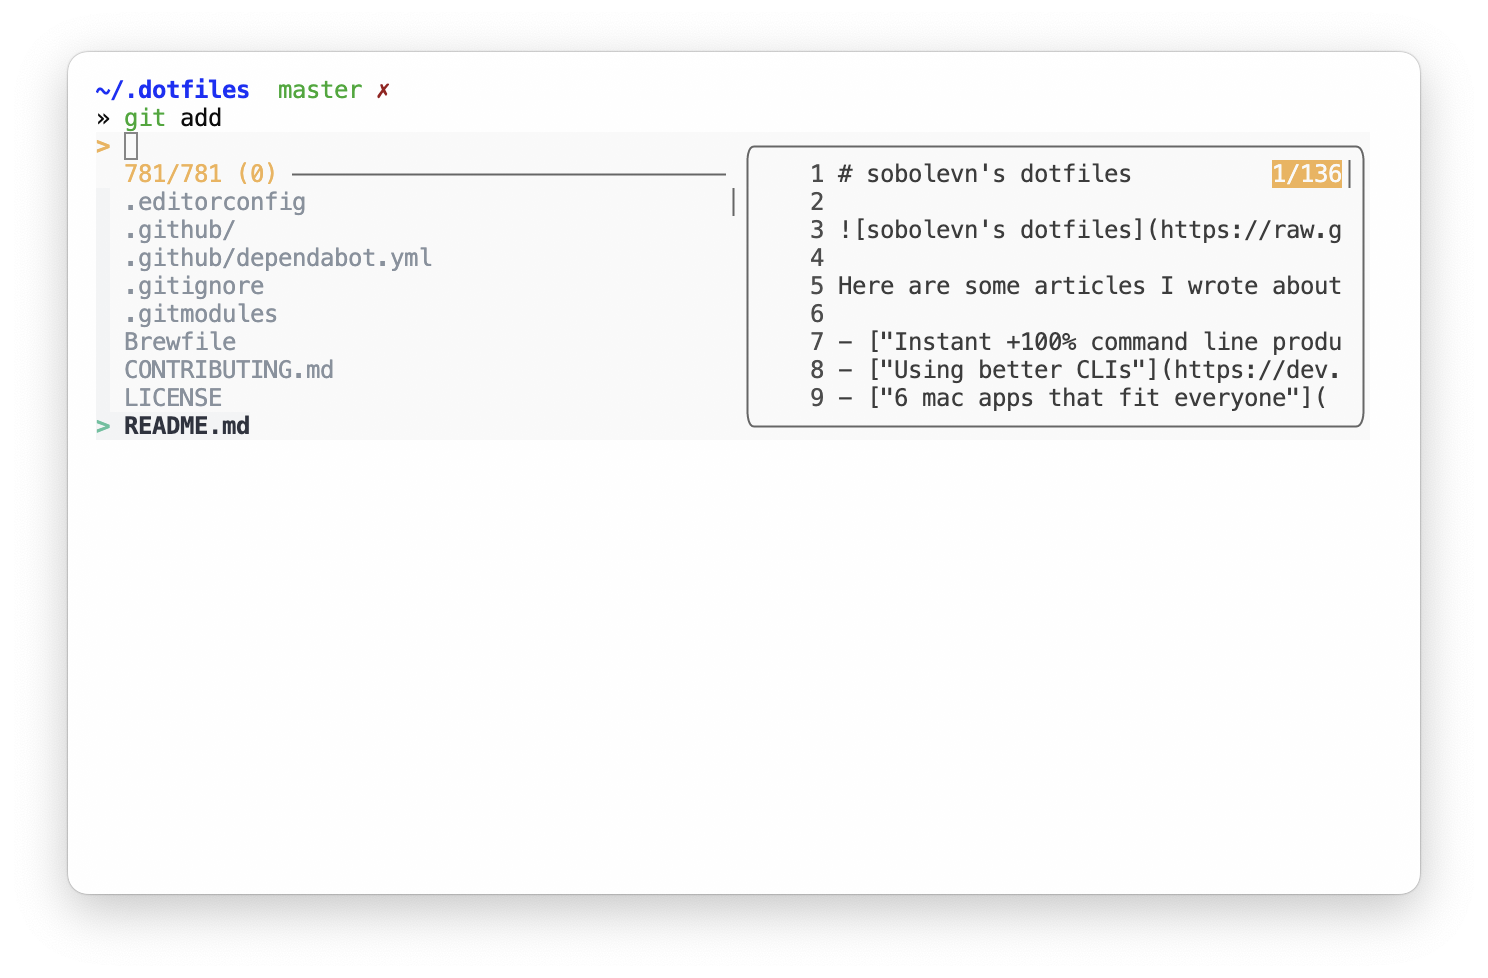
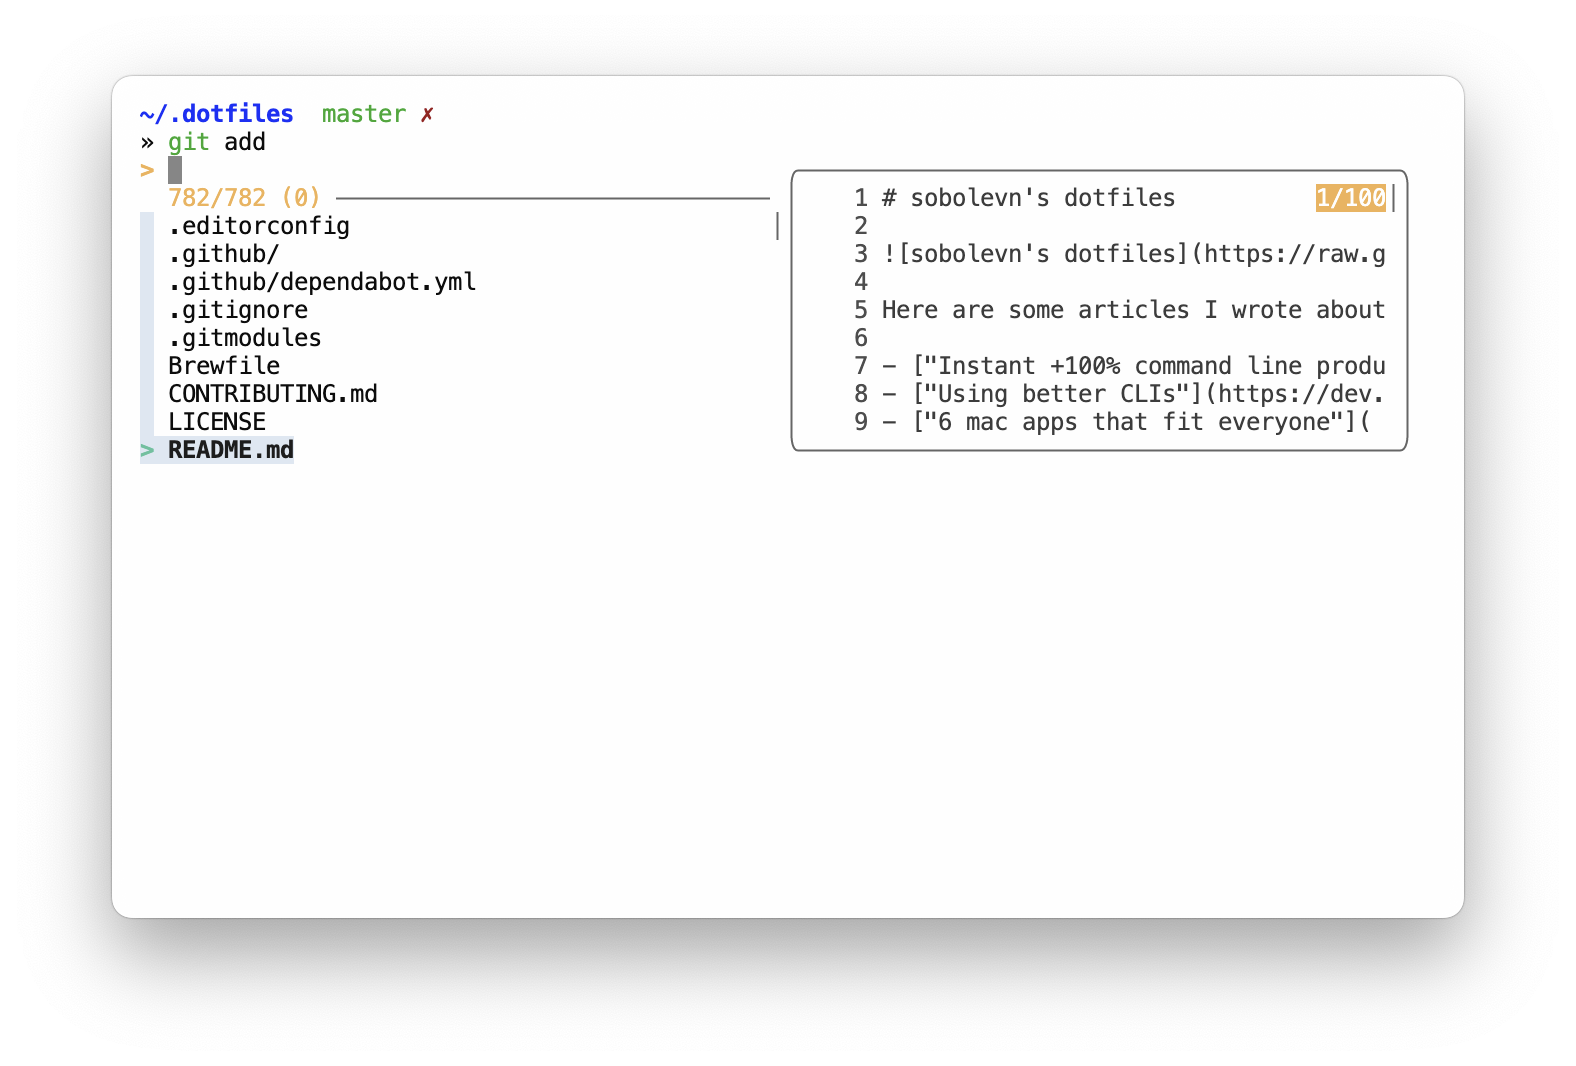
Fix fzf style

Changed region(s): [[0.0309, 0.0613, 0.9583, 0.9202], [0.4637, 0.184, 0.4946, 0.2147]]

diff --git a/README.md b/README.md
@@ -93,7 +93,7 @@ But I don't use them on a daily basis:
 
 ### fzf goodies
 
-I use `fzf` for several tasks:
+I use `fzf` for several [code complition](https://github.com/sobolevn/dotfiles/blob/master/shell/.completions) tasks:
 
 - `tab` to autocomplete probably all the things using [`fzf-tab`](https://github.com/Aloxaf/fzf-tab)
 
@@ -110,6 +110,10 @@ I use `fzf` for several tasks:
 - `ctrl+g` to work with [`fzf-git`](https://github.com/junegunn/fzf-git.sh)
 
 ![fzf-git](https://raw.githubusercontent.com/sobolevn/dotfiles/master/media/fzf-git.png)
+
+- press `space` + `tab` after `z <path>` to enable fuzzy finder for `zoxide`
+
+![fzf-zoxide](https://raw.githubusercontent.com/sobolevn/dotfiles/master/media/fzf-zoxide.png)
 
 
 ## Apps
